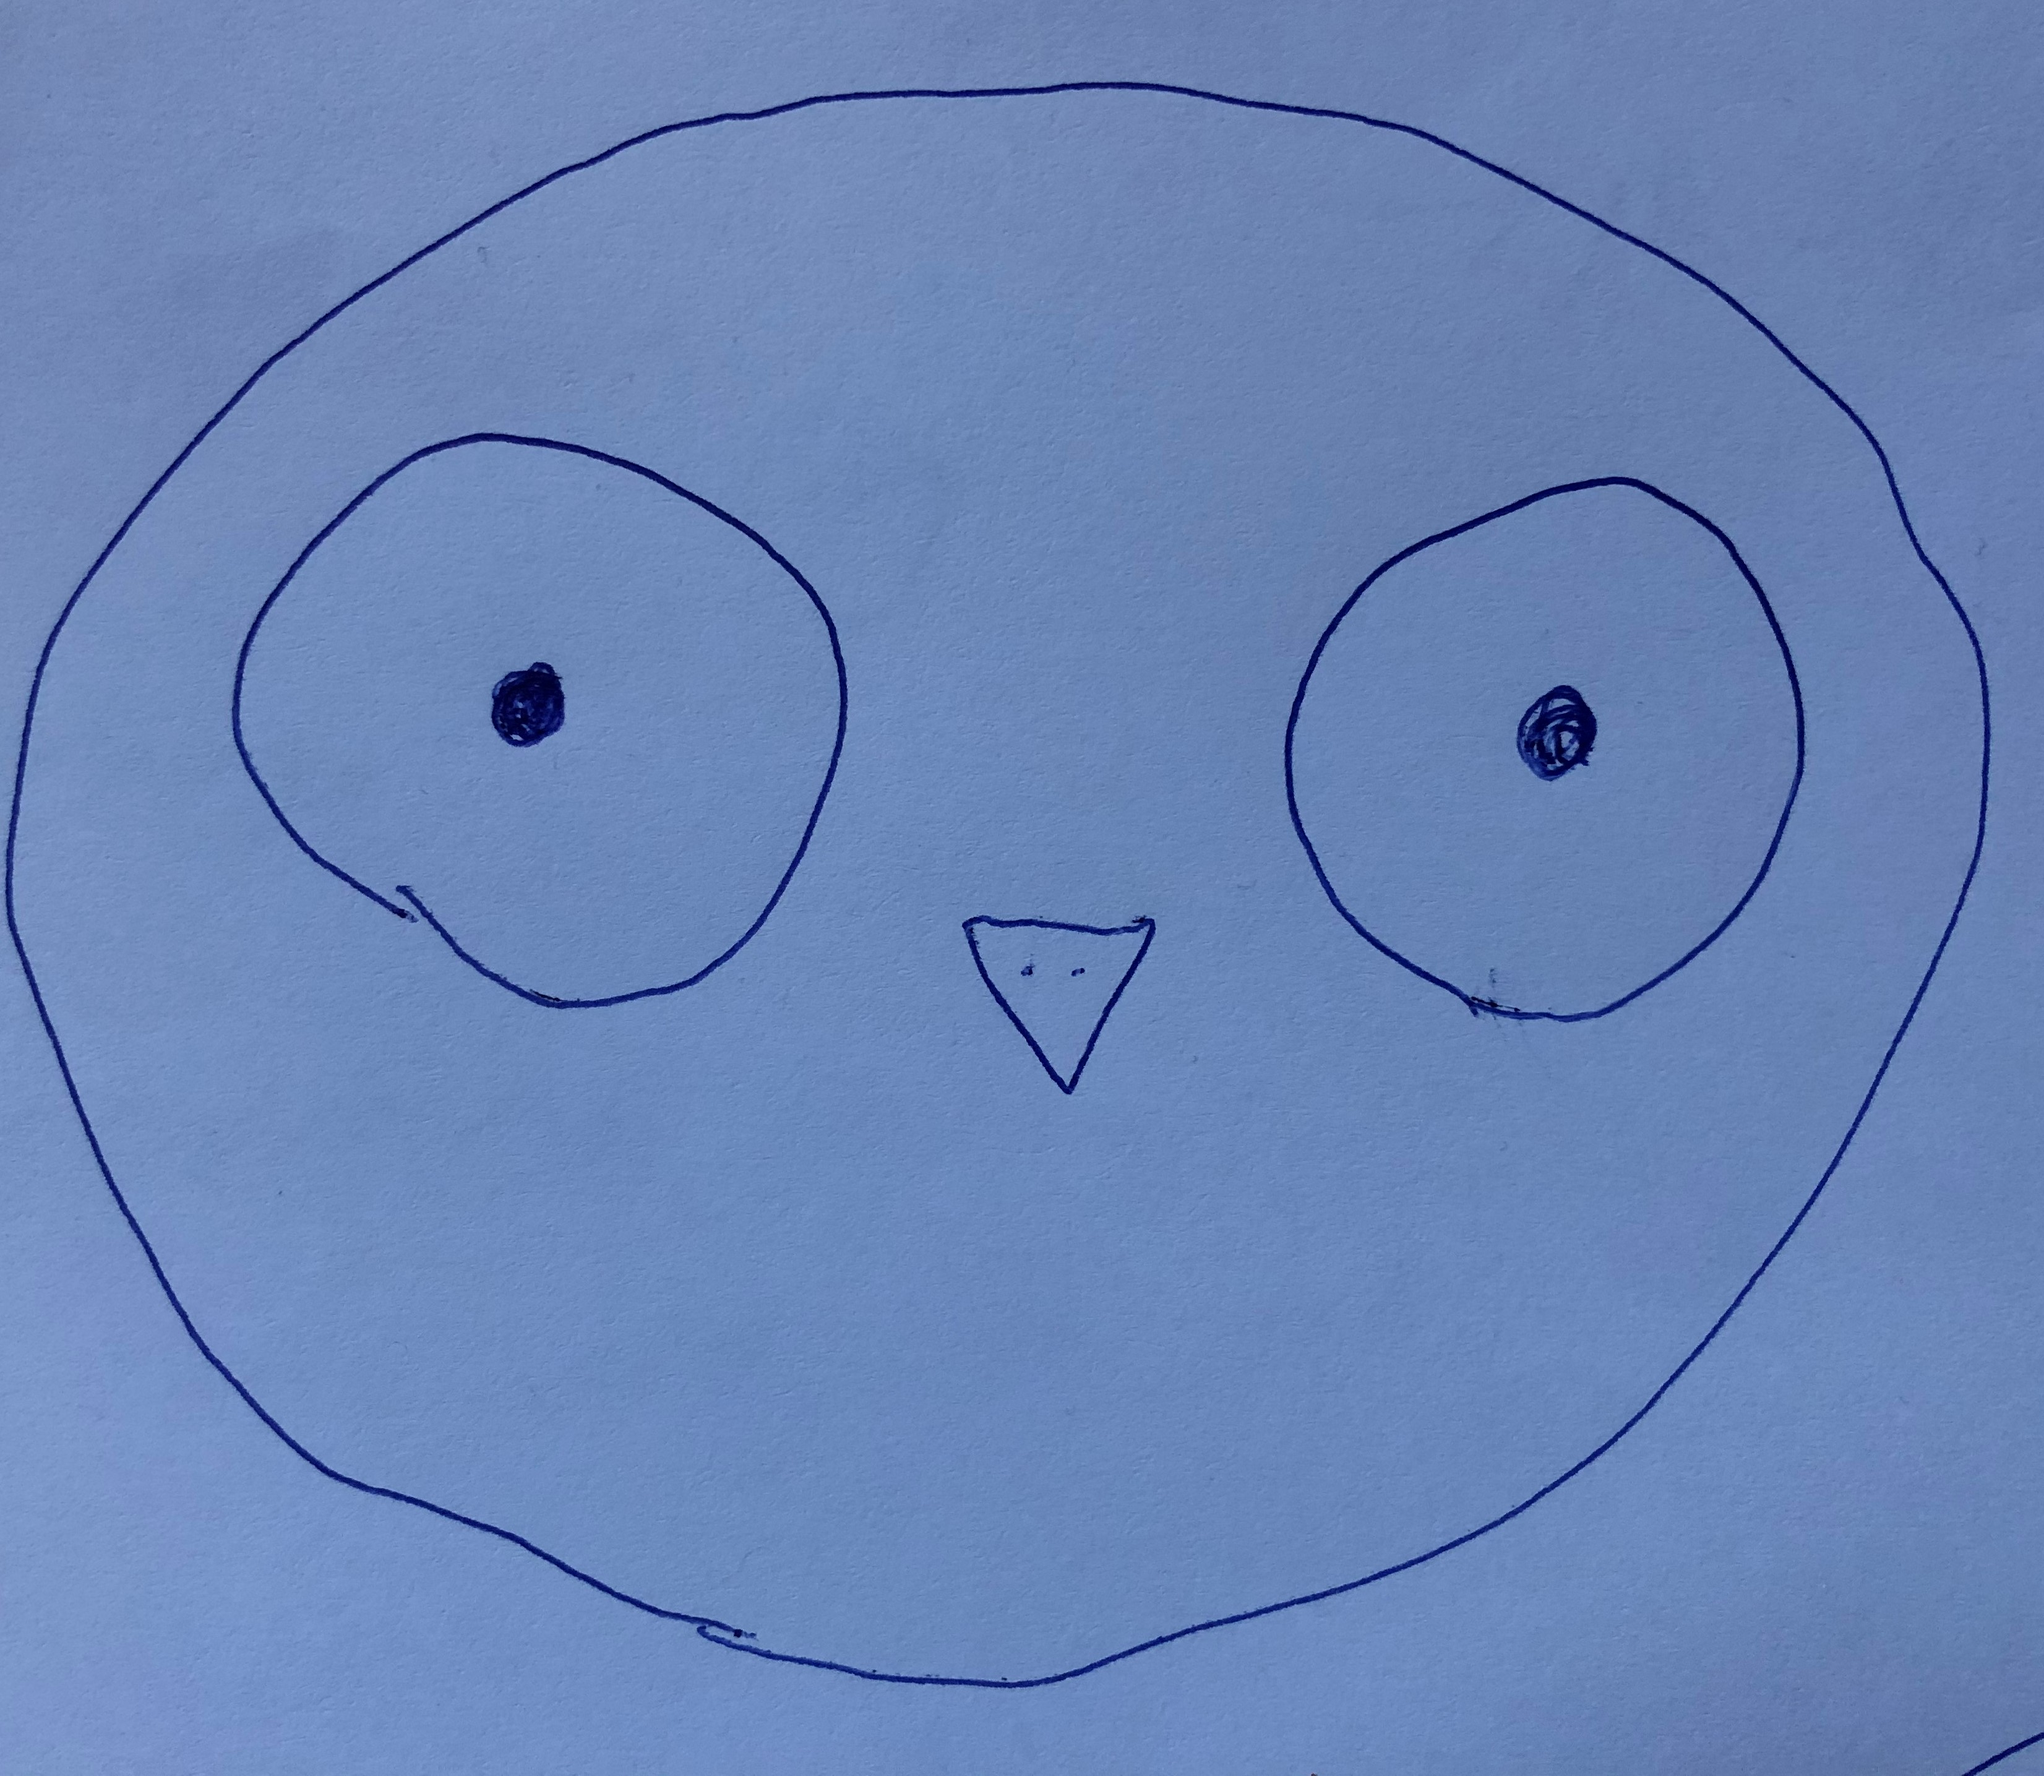
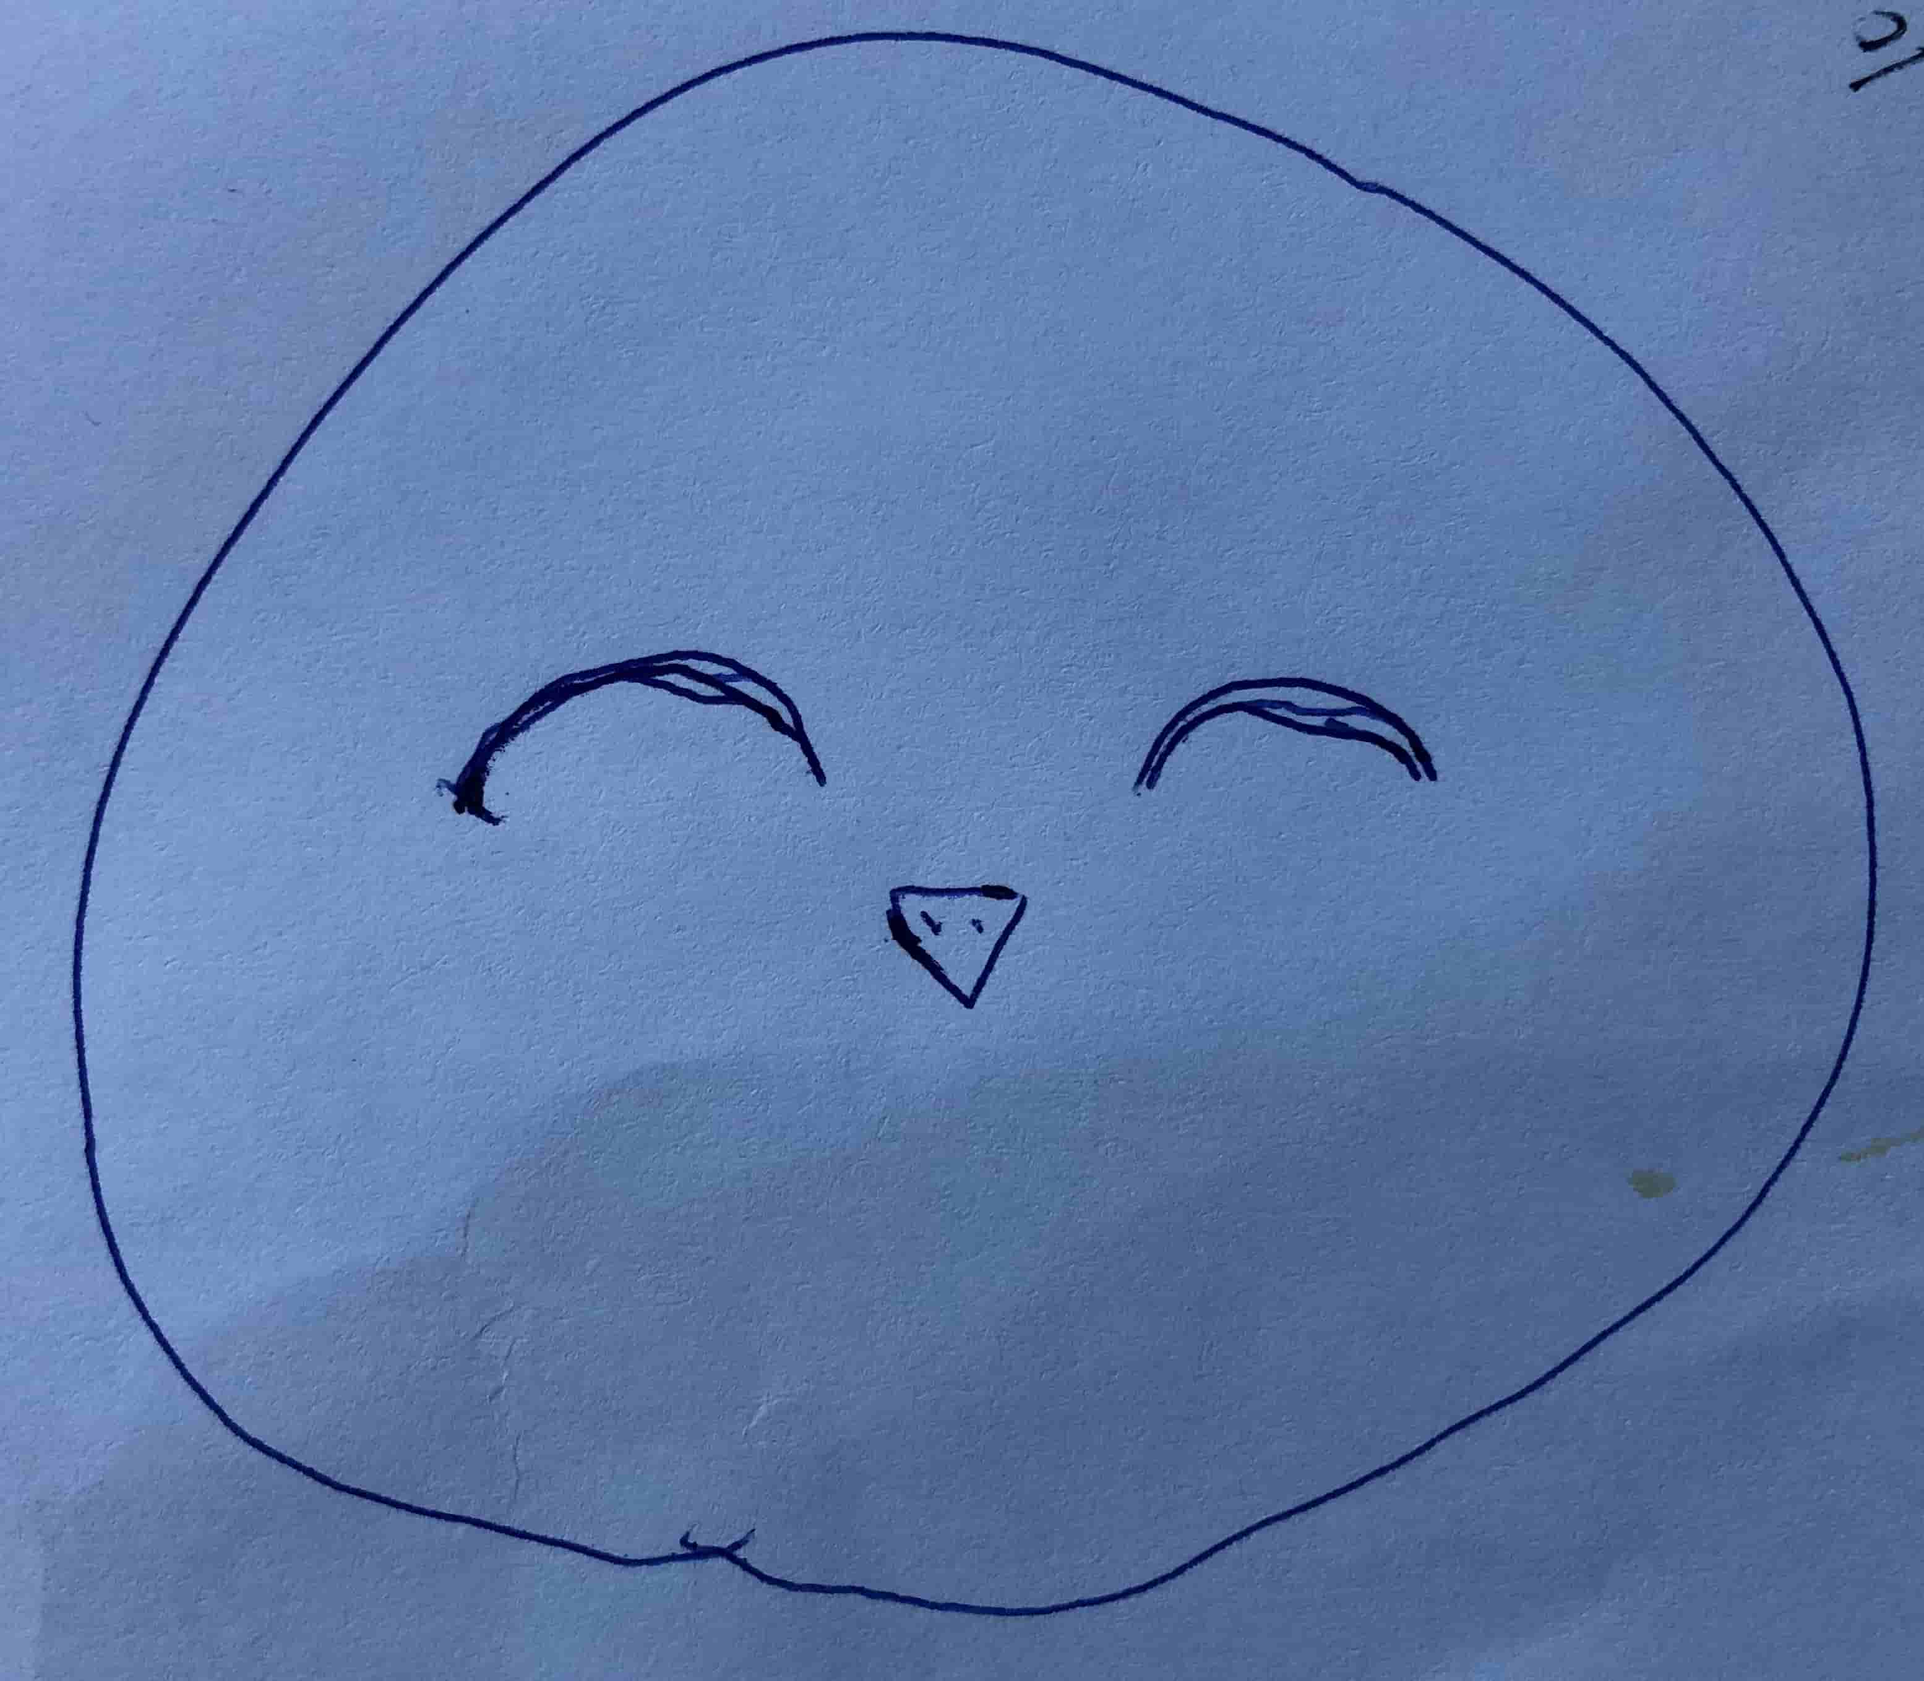
Compressed images for owls

diff --git a/05_speedTestGame/src/Components/GameOver.js b/05_speedTestGame/src/Components/GameOver.js
@@ -15,10 +15,10 @@ const GameOver = (props) => {
     
     return (
         <div className="overlay">
-            <div className="gameOverBox">
+            <div className="gameOverBox" onMouseOver={play}>
                 <h2>Ouch! Faster and more accurate next time?</h2>
                 <p>Your score was: {props.score}</p>  
-                <button onMouseOver={play} onClick={closeHandler}>Close</button>               
+                <button onClick={closeHandler}>Close</button>               
                 {/* "this" is not used with closehandler on button as it is not a class component!                 */}
             </div>
                 

diff --git a/05_speedTestGame/src/App.js b/05_speedTestGame/src/App.js
@@ -31,11 +31,6 @@ class App extends Component {
   // Finding and passing data to the event.  
   clickHandler = (id) => {
 
-    function playClickSound(){
-      let clickSound = new Audio('/assets/clickSound.wav');
-      clickSound.play();
-    }
-
     console.log("Wow, you clicked circle no. " + id);
     // If currently selected circle does not match the clicked id, game over
     if (this.state.current !== id){
@@ -108,6 +103,7 @@ class App extends Component {
     });
 
     return (
+
       <div className="App">          
         <h1>Fast enough to catch the owl?</h1>
         <h2>Click the owl when it opens the eyes</h2>

diff --git a/05_speedTestGame/src/Components/Circle.css b/05_speedTestGame/src/Components/Circle.css
@@ -8,14 +8,14 @@
 }
 
 .bg1, .bg2, .bg3, .bg4 {
-    background-image: url(../assets/eyesOpen.jpg);
+    background-image: url(../assets/eyesClosed.jpg);
     background-position: center;
     background-size: cover;
 
 }
 
 .circle.active {
-    background-image: url(../assets/eyesClosed.jpg);
+    background-image: url(../assets/eyesOpen.jpg);
     background-position: center;
     background-size: cover;
 }
